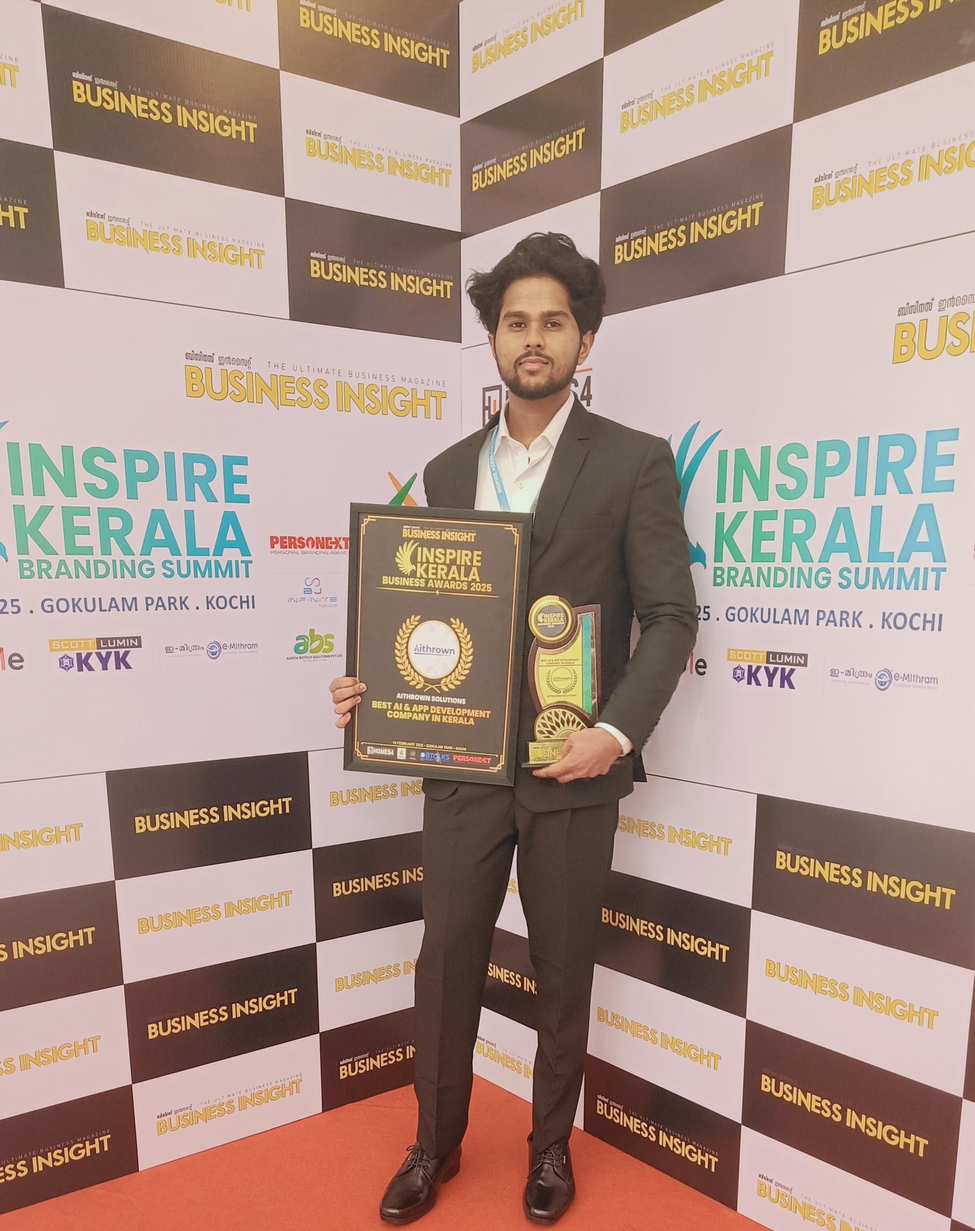
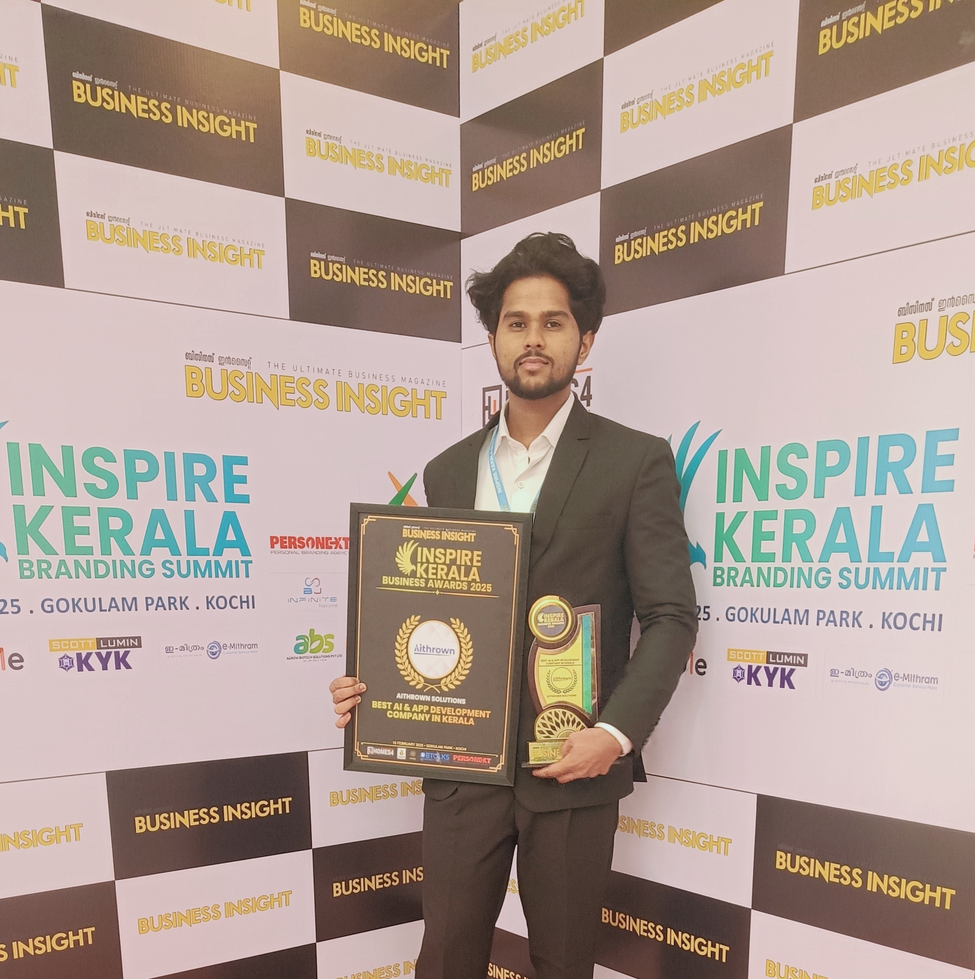
new award image and main image alignment issue solved

diff --git a/src/Components/AwardsShowcase.jsx b/src/Components/AwardsShowcase.jsx
@@ -1,7 +1,7 @@
 import image from "../assets/awards/award.jpg";
 import image1 from "../assets/awards/award1.jpg";
 import image2 from "../assets/awards/award2.jpg";
-// import image3 from "../assets/awards/award3.jpg";
+import awardimage from "../assets/awards/awardimage.jpg";
 import image4 from "../assets/awards/award4.jpg";
 
 const AwardsShowcase = () => {
@@ -20,7 +20,13 @@ const AwardsShowcase = () => {
           in transforming the IT landscape through innovation and client-centric
           solutions.
         </p>
-
+        <div className="flex justify-center w-full p-8">
+          <img
+            src={awardimage}
+            alt="award-image"
+            className="max-h-[30rem] w-fit"
+          />
+        </div>
         {/* Awards Section */}
         <div className="space-y-12">
           {/* Horizontal Image Award (Special Layout) */}
